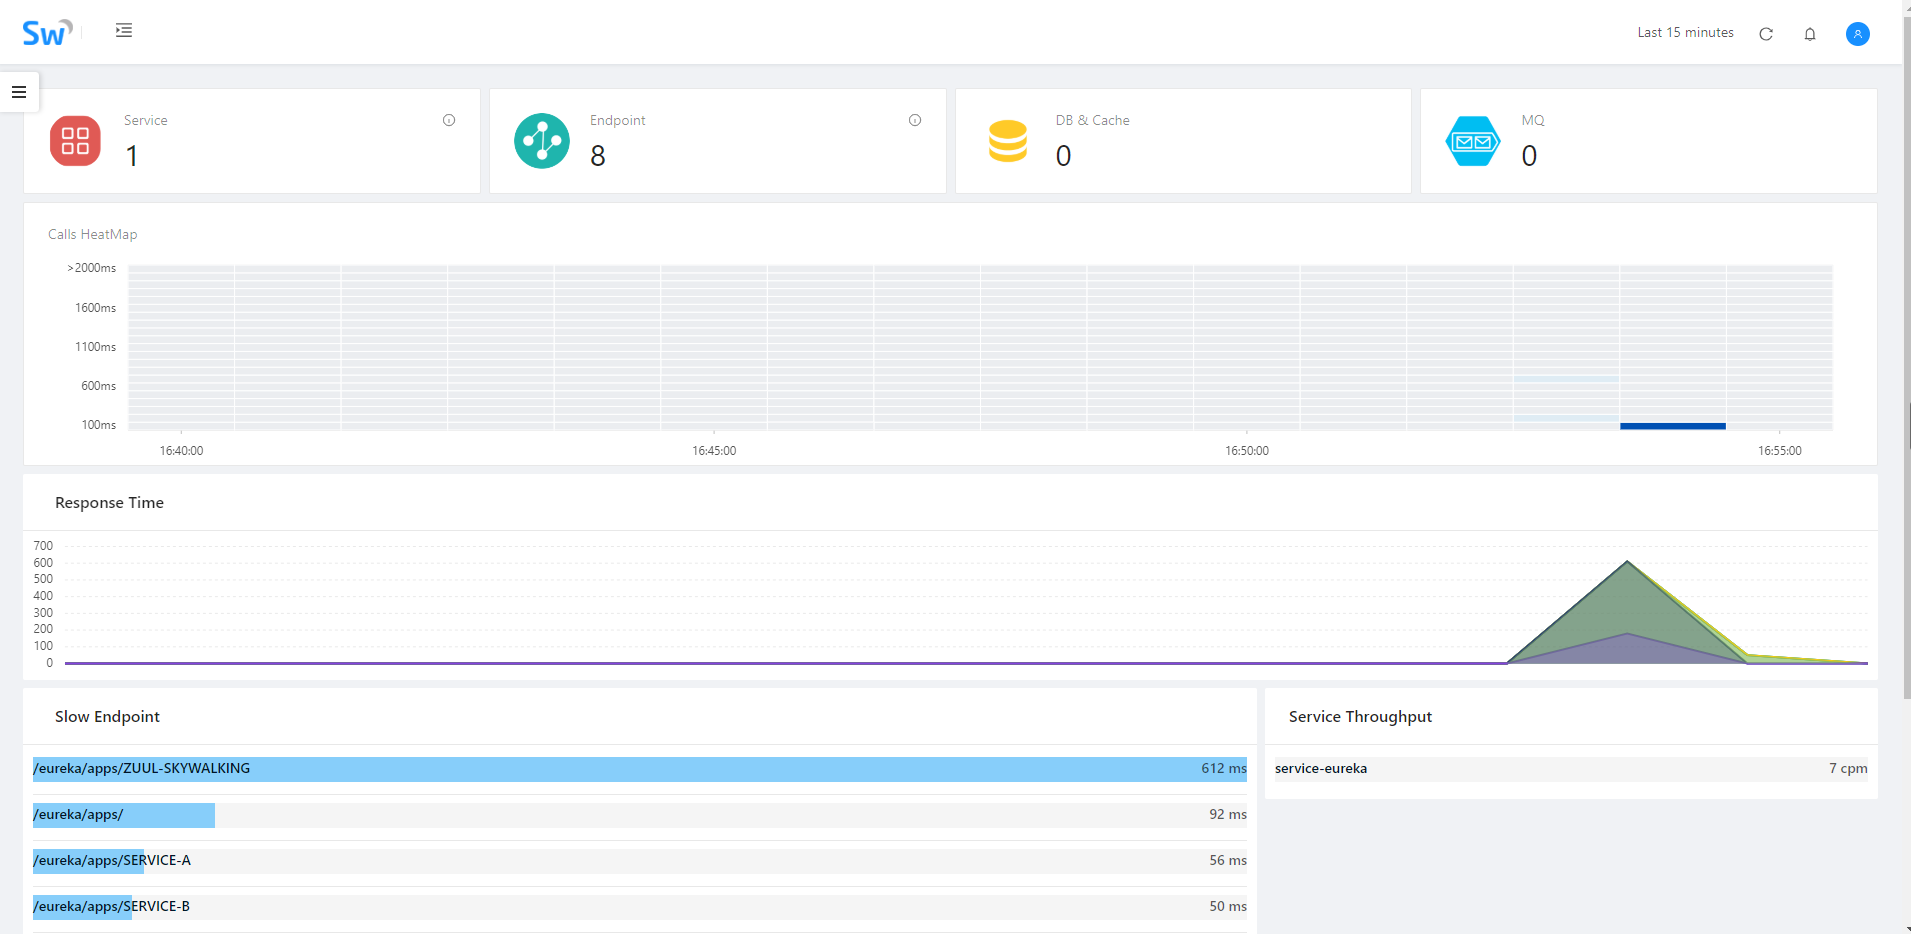
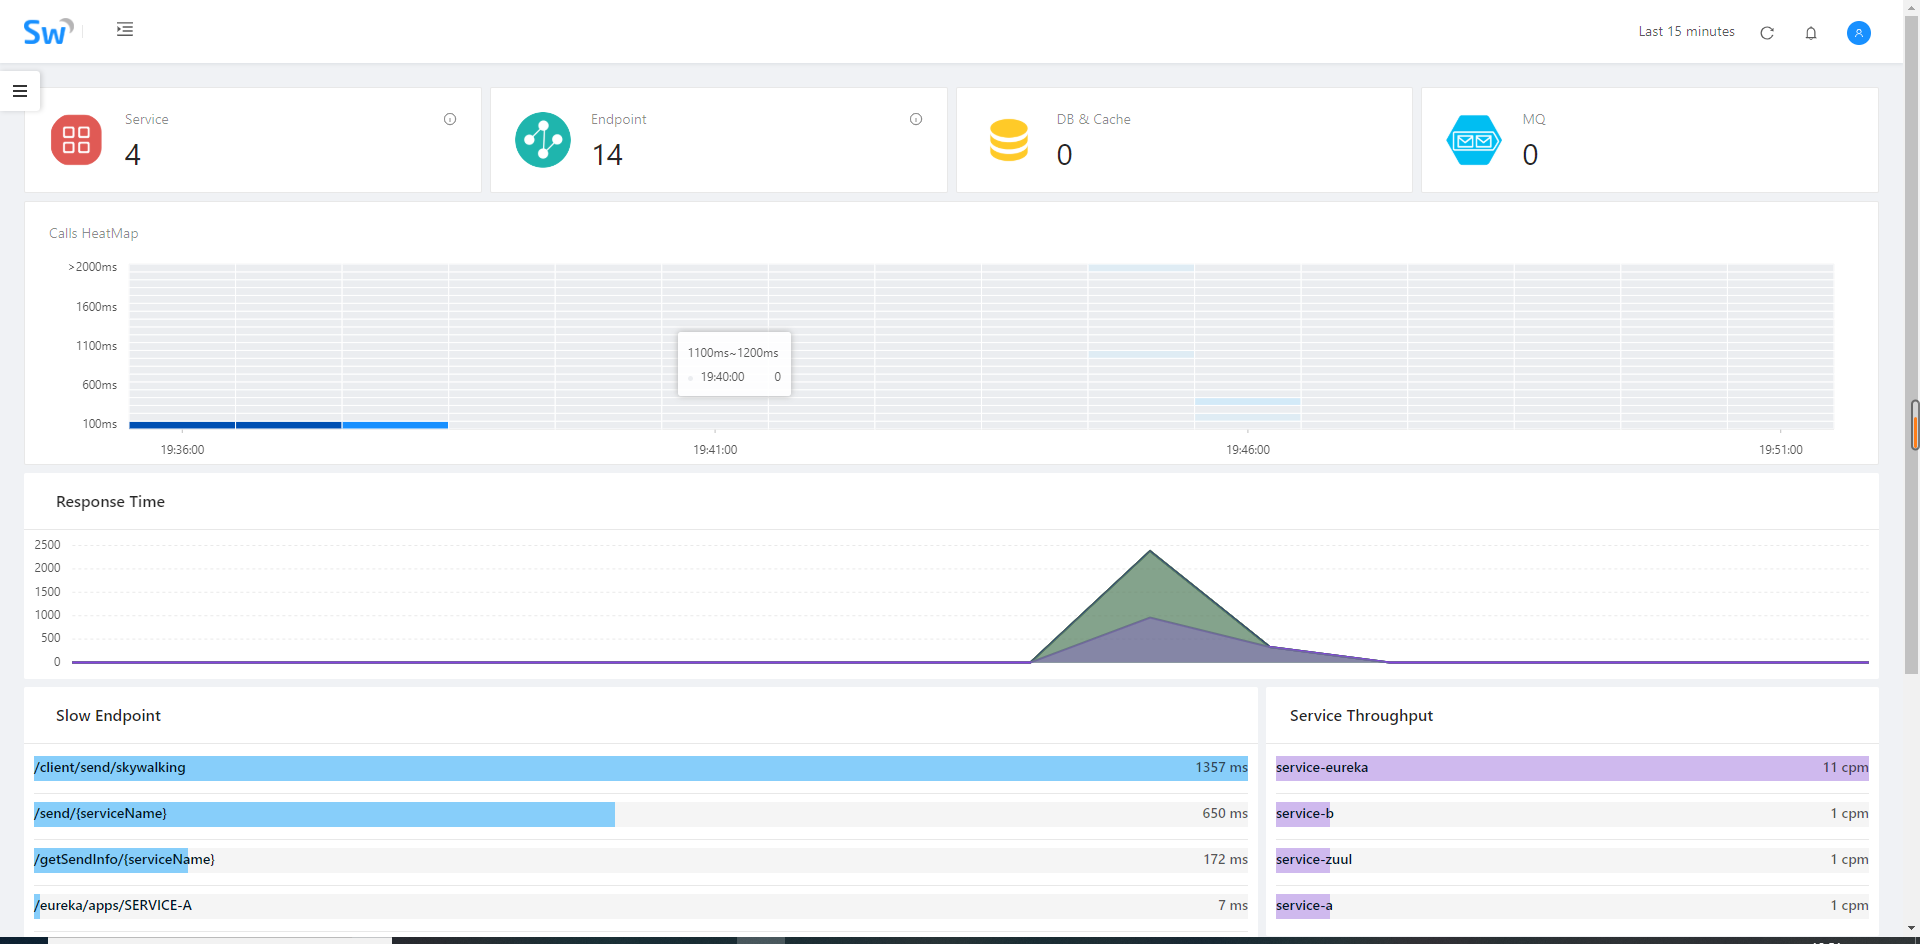
Site updated: 2019-01-18 19:53:19

diff --git a/2019/01/18/SpringCloud学习-10-非入侵APM——SkyWalking/index.html b/2019/01/18/SpringCloud学习-10-非入侵APM——SkyWalking/index.html
@@ -117,7 +117,8 @@
 <meta property="og:image" content="http://yoursite.com/images/SpringCloud/SkyWalking/skyWalking-3.png">
 <meta property="og:image" content="http://yoursite.com/images/SpringCloud/SkyWalking/skyWalking-4.png">
 <meta property="og:image" content="http://yoursite.com/images/SpringCloud/SkyWalking/skyWalking-5.png">
-<meta property="og:updated_time" content="2019-01-18T11:48:56.193Z">
+<meta property="og:image" content="http://yoursite.com/images/SpringCloud/SkyWalking/skyWalking-6.png">
+<meta property="og:updated_time" content="2019-01-18T11:49:50.748Z">
 <meta name="twitter:card" content="summary">
 <meta name="twitter:title" content="SpringCloud学习(10)非入侵APM——SkyWalking">
 <meta name="twitter:description" content="SkyWalking概述SkyWalking 是一个用于追踪、监控和诊断分布式系统，特别是微服务的项目。从5.X进化成一个完成功能的APM系统">
@@ -396,7 +397,7 @@
                 
               
 
-              <time title="创建时间：2019-01-18 18:42:58 / 修改时间：19:48:56" itemprop="dateCreated datePublished" datetime="2019-01-18T18:42:58+08:00">2019-01-18</time>
+              <time title="创建时间：2019-01-18 18:42:58 / 修改时间：19:49:50" itemprop="dateCreated datePublished" datetime="2019-01-18T18:42:58+08:00">2019-01-18</time>
             
 
             
@@ -508,7 +509,7 @@
 <p>然后再说那4个jar，4个jar是通过maven打包出来的，我是使用的clean install命令打包出来的，然后分别放到对应的文件夹下即可。</p>
 <h3 id="启动服务"><a href="#启动服务" class="headerlink" title="启动服务"></a>启动服务</h3><figure class="highlight bash"><table><tr><td class="gutter"><pre><span class="line">1</span><br><span class="line">2</span><br><span class="line">3</span><br><span class="line">4</span><br><span class="line">5</span><br><span class="line">6</span><br><span class="line">7</span><br><span class="line">8</span><br><span class="line">9</span><br><span class="line">10</span><br><span class="line">11</span><br></pre></td><td class="code"><pre><span class="line">--启动Eureka</span><br><span class="line">java -javaagent:E:/software/skywalking/service-eureka/agent/skywalking-agent.jar -jar SpringCloud-leaning-7-eureka-server-skywalking-0.0.1-SNAPSHOT.jar</span><br><span class="line"></span><br><span class="line">--启动zuul</span><br><span class="line">java -javaagent:E:/software/skywalking/service-zuul/agent/skywalking-agent.jar -jar SpringCloud-leaning-7-zuul-skywalking-0.0.1-SNAPSHOT.jar</span><br><span class="line"></span><br><span class="line">--启动service<span class="_">-a</span></span><br><span class="line">java -javaagent:E:/software/skywalking/service<span class="_">-a</span>/agent/skywalking-agent.jar -jar SpringCloud-leaning-7-service<span class="_">-a</span>-skywalking-0.0.1-SNAPSHOT.jar</span><br><span class="line"></span><br><span class="line">--启动serice -b</span><br><span class="line">java -javaagent:E:/software/skywalking/service-b/agent/skywalking-agent.jar -jar SpringCloud-leaning-7-service-b-skywalking-1-0.0.1-SNAPSHOT.jar</span><br></pre></td></tr></table></figure>
 <p>这里要注意两点，一个是skywalking-agent.jar 是当前目录下的，复制的时候不要忘了改，不然拓扑图不显示…（自己懒省事挖的坑解决了好久…..）<br>启动完成后 刷新localhost:8080可以看到以下界面:<br><img src="/images/SpringCloud/SkyWalking/skyWalking-5.png"></p>
-<p>重新执行<a href="http://localhost:9020/client/send/skywalking" target="_blank" rel="noopener">http://localhost:9020/client/send/skywalking</a><br>可以看到页面监控的响应时间等信息。<br>其他的一些详情信息可以点击左侧的各项指标进行查看，比如服务地图等等….</p>
+<p>重新执行<a href="http://localhost:9020/client/send/skywalking" target="_blank" rel="noopener">http://localhost:9020/client/send/skywalking</a><br>可以看到页面监控的响应时间等信息。<br>其他的一些详情信息可以点击左侧的各项指标进行查看，比如服务地图等等….<br><img src="/images/SpringCloud/SkyWalking/skyWalking-6.png"></p>
 <p>参考文献：<br>    《重新定义SpringCloud实战》——许进</p>
 
       

diff --git a/index.html b/index.html
@@ -388,7 +388,7 @@
                 
               
 
-              <time title="创建时间：2019-01-18 18:42:58 / 修改时间：19:48:56" itemprop="dateCreated datePublished" datetime="2019-01-18T18:42:58+08:00">2019-01-18</time>
+              <time title="创建时间：2019-01-18 18:42:58 / 修改时间：19:49:50" itemprop="dateCreated datePublished" datetime="2019-01-18T18:42:58+08:00">2019-01-18</time>
             
 
             
